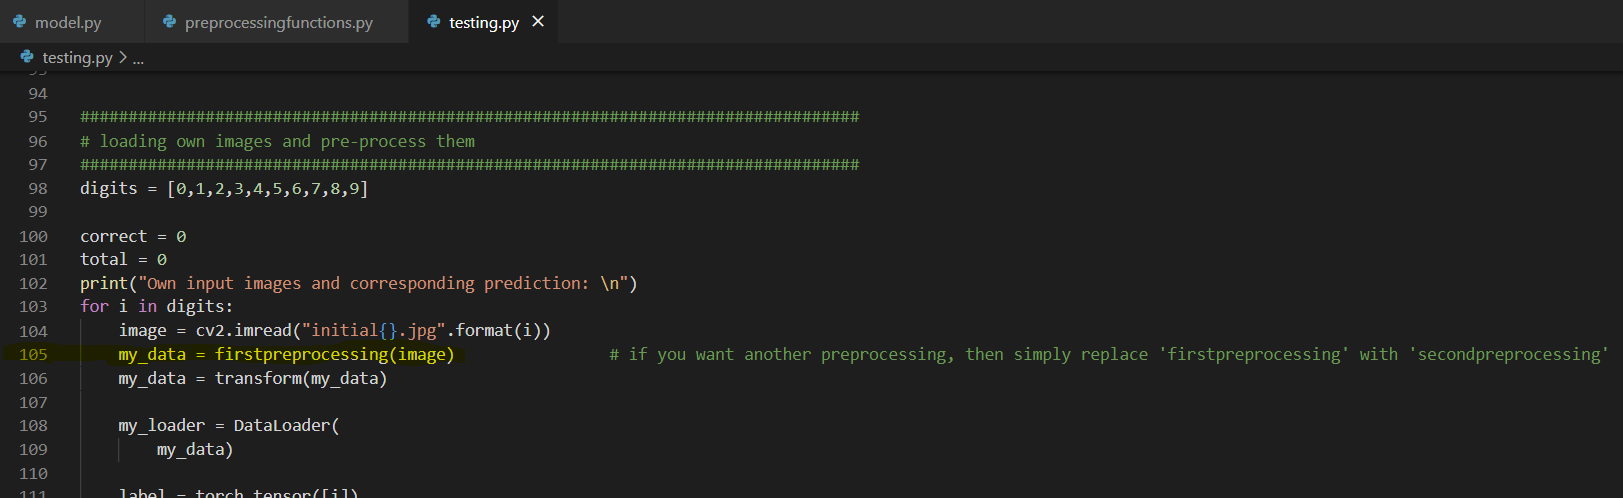
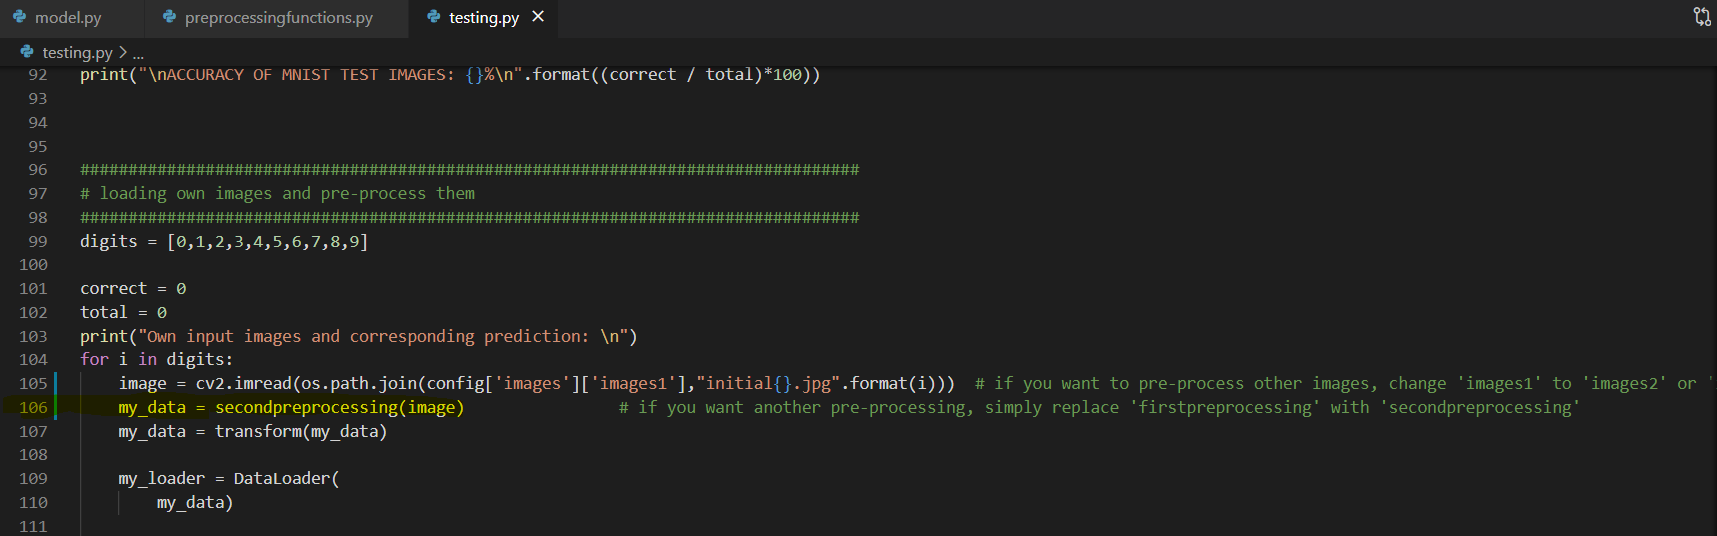
changes

diff --git a/dl_project/testing.py b/dl_project/testing.py
@@ -1,4 +1,5 @@
 import click
+import os
 import cv2 as cv2
 import torch
 from torch import nn
@@ -101,8 +102,8 @@ correct = 0
 total = 0
 print("Own input images and corresponding prediction: \n")
 for i in digits:
-    image = cv2.imread("initial{}.jpg".format(i))
-    my_data = secondpreprocessing(image)                # if you want another preprocessing, then simply replace 'firstpreprocessing' with 'secondpreprocessing'
+    image = cv2.imread(os.path.join(config['images']['images1'],"initial{}.jpg".format(i)))  # if you want to pre-process other images, change 'images1' to 'images2' or 'images3',...
+    my_data = secondpreprocessing(image)                # if you want another pre-processing, simply replace 'firstpreprocessing' with 'secondpreprocessing'
     my_data = transform(my_data)
 
     my_loader = DataLoader(

diff --git a/README.md b/README.md
@@ -21,19 +21,10 @@
 ##### After that the accuracy of the MNIST test images will be printed in the command prompt as well as my own images with the corresponding predictions of the model and the total accuracy of all my own images. ![Step4](/dl_project/step4.PNG)
 
 #### Step 6: 
-##### There are two different pre-processing functions ('firstpreprocessing' and 'secondpreprocessing'), which can be used for my own images. Just change it in 'testing.py' in line 105, if you want to use the other pre-processing function.
+##### There are two different pre-processing functions ('firstpreprocessing' and 'secondpreprocessing'), which can be used for my own images. Just change it in 'testing.py' in line 106, if you want to use the other pre-processing function.
 ######                              -->   'firstpreprocessing' yields better results than 'secondpreprocessing', that's why my guess is that my pre-processing is different from the one for the MNIST dataset.
 ![Step5](/dl_project/step5.PNG)
 
 #### Step 7: 
-##### You can also use different images. Just delete the images, which are currently in the same folder ('dl_project') like the '.py' files, and choose another folder ('images1', 'images2', 'images3',...) and copy the images in the same folder ('dl_project') as the '.py' files. Then run the 'testing.py'-file with the prefered pre-processing function.
-######                                  --> By default there are images of the folder 'images2' in the 'dl_project' folder.
+##### You can also use different images. Just change 'images1' to 'images2' or 'images3',....  ![Step10](/dl_project/step10.PNG)  ![Step11](/dl_project/step11.PNG)
 
-##### Delete old images.
-![Step10](/dl_project/step10.PNG) 
-
-##### Choose for example folder 'images1'.
-![Step8](/dl_project/step8.PNG) 
-
-##### And copy the images of 'images1' into 'dl_project' folder.
-![Step9](/dl_project/step9.PNG)
